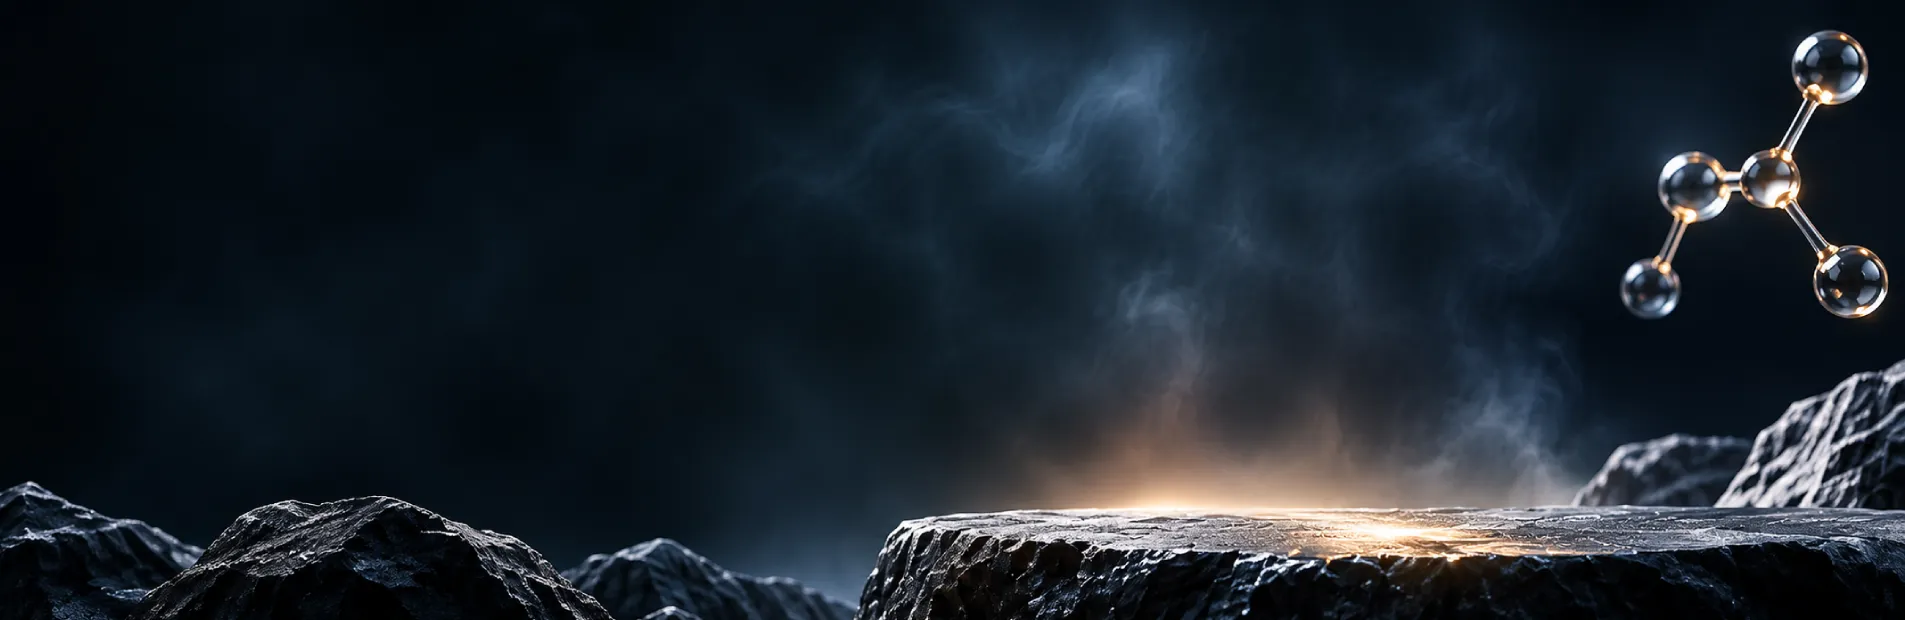
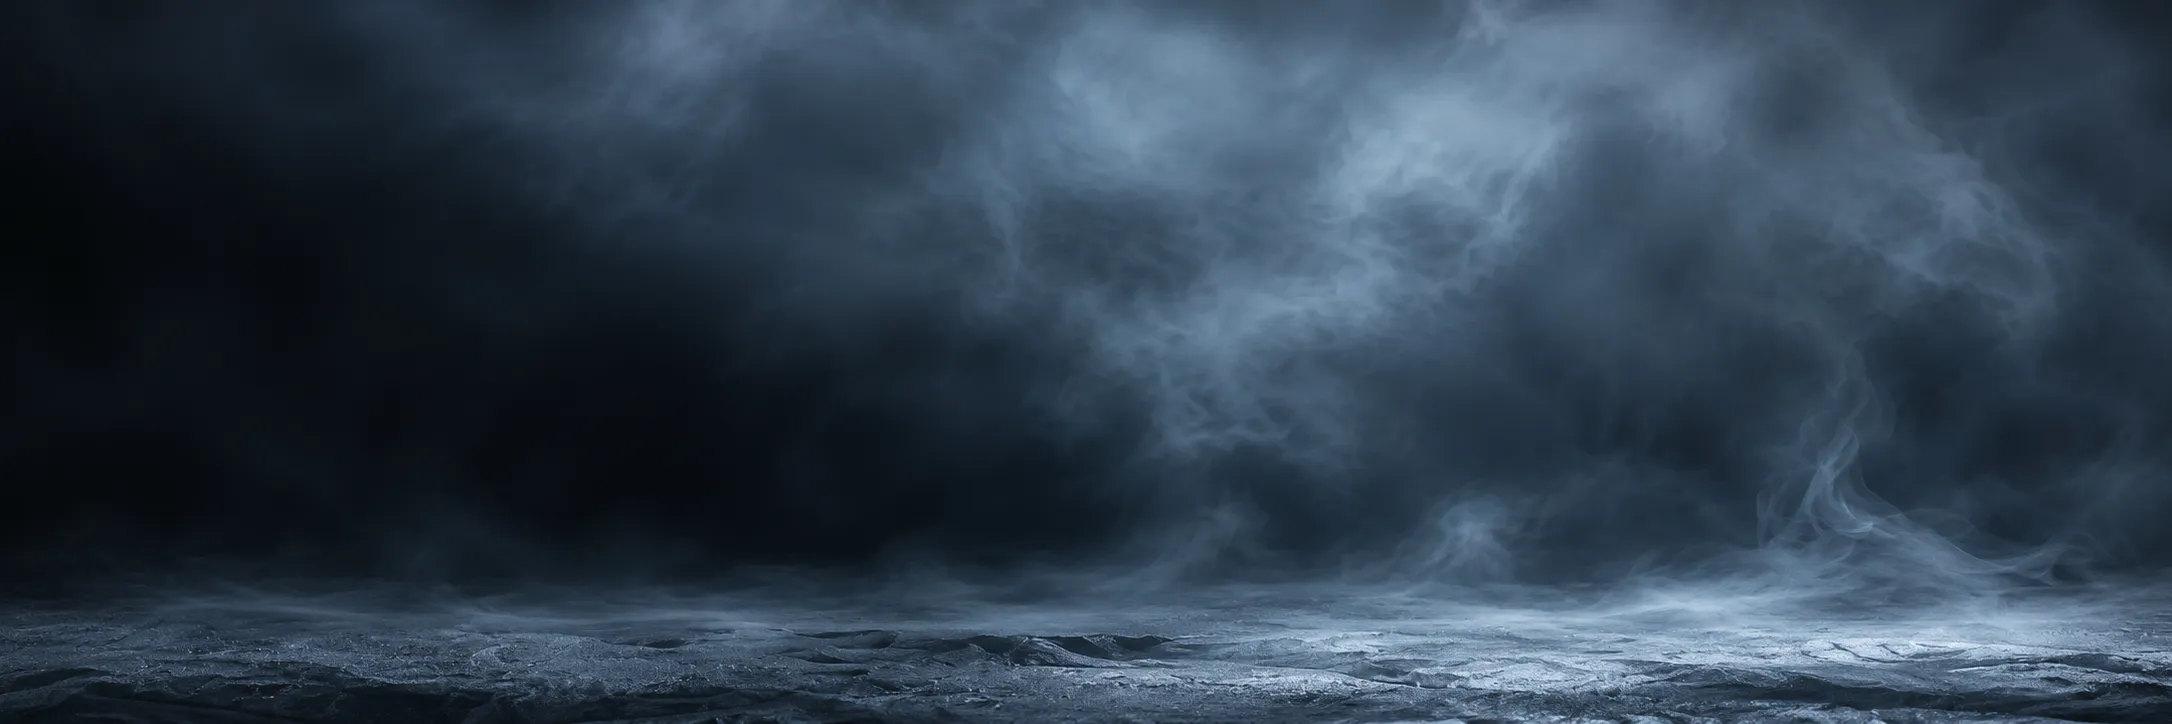
backup before execute 137

diff --git a/public/frontend/assets/css/home-reference.css b/public/frontend/assets/css/home-reference.css
@@ -281,8 +281,6 @@
     width: 420px;
     aspect-ratio: 1;
     border-radius: 50%;
-    background: radial-gradient(circle, rgba(243, 182, 63, .22), transparent 68%);
-    filter: blur(8px)
 }
 
 .onyx-hero-product img {
@@ -2436,9 +2434,9 @@
 
 .home-page .onyx-categories > .container {
     width: 100%;
-    max-width: none;
-    padding-right: clamp(22px, 3.2vw, 64px);
-    padding-left: clamp(22px, 3.2vw, 64px);
+    max-width: 1280px;
+    padding-right: 12px;
+    padding-left: 12px;
 }
 
 .home-page .onyx-category-heading {
@@ -2447,7 +2445,7 @@
     display: flex;
     align-items: center;
     justify-content: center;
-    margin-bottom: 48px;
+    margin-bottom: 34px;
     text-align: center;
 }
 
@@ -2989,5 +2987,202 @@
 
     .home-page .onyx-newsletter {
         padding: 20px;
+    }
+}
+
+/* Minimal title-only category directory. */
+.home-page .onyx-categories {
+    color: #0b151d;
+    background:
+        radial-gradient(circle at 8% 20%, rgba(243,182,63,.09), transparent 22%),
+        radial-gradient(circle at 92% 80%, rgba(7,16,24,.045), transparent 24%),
+        #fff;
+}
+
+.home-page .onyx-category-heading h2 {
+    color: #0b151d;
+}
+
+.home-page .onyx-category-heading > div > p:last-child {
+    color: #66727a;
+}
+
+.home-page .onyx-category-grid {
+    grid-template-columns: repeat(4, minmax(0, 1fr));
+    gap: 14px;
+}
+
+.home-page .onyx-category-card {
+    min-height: 118px;
+    display: grid;
+    place-items: center;
+    padding: 20px;
+    overflow: hidden;
+    border: 1px solid #e1e5e7;
+    border-radius: 16px;
+    background: rgba(255,255,255,.9);
+    color: #101a22;
+    text-align: center;
+    text-decoration: none;
+    box-shadow: 0 10px 26px rgba(7,16,24,.06);
+    transition: transform .3s ease, border-color .3s ease, box-shadow .3s ease, color .3s ease, background .3s ease;
+}
+
+.home-page .onyx-category-card:before {
+    content: "";
+    position: absolute;
+    top: 0;
+    left: 50%;
+    width: 54px;
+    height: 3px;
+    border-radius: 0 0 999px 999px;
+    background: linear-gradient(90deg, #ffe39a, #d8951d);
+    transform: translateX(-50%);
+    transition: width .3s ease;
+}
+
+.home-page .onyx-category-card:after {
+    content: "";
+    position: absolute;
+    right: -42px;
+    bottom: -42px;
+    width: 90px;
+    height: 90px;
+    border: 1px solid rgba(198,136,23,.13);
+    border-radius: 50%;
+    box-shadow: 0 0 0 18px rgba(198,136,23,.025);
+}
+
+.home-page .onyx-category-card > strong {
+    position: relative;
+    z-index: 1;
+    max-width: 100%;
+    color: inherit;
+    font-size: clamp(14px, 1.05vw, 17px);
+    line-height: 1.1;
+    letter-spacing: -.02em;
+    text-transform: uppercase;
+}
+
+.home-page .onyx-category-card:hover {
+    border-color: rgba(198,136,23,.5);
+    background: linear-gradient(145deg, #fffdf8, #fff);
+    color: #b8790d;
+    box-shadow: 0 18px 38px rgba(7,16,24,.11);
+    transform: translateY(-5px);
+}
+
+.home-page .onyx-category-card:hover:before {
+    width: 100%;
+}
+
+@media(max-width:991px) {
+    .home-page .onyx-category-grid {
+        grid-template-columns: repeat(2, minmax(0, 1fr));
+    }
+}
+
+@media(max-width:575px) {
+    .home-page .onyx-categories > .container {
+        padding-right: 16px;
+        padding-left: 16px;
+    }
+
+    .home-page .onyx-category-grid {
+        grid-template-columns: 1fr;
+        gap: 12px;
+    }
+
+    .home-page .onyx-category-card {
+        min-height: 104px;
+        border-radius: 16px;
+    }
+}
+
+/* Final compact category treatment: premium navigation tiles without dead space. */
+.home-page .onyx-categories.section-pad {
+    padding-top: 54px;
+    padding-bottom: 46px;
+}
+
+.home-page .onyx-category-heading {
+    margin-bottom: 26px;
+}
+
+.home-page main .onyx-categories .onyx-category-heading h2 {
+    font-size: clamp(38px, 3.6vw, 52px) !important;
+}
+
+.home-page .onyx-category-grid {
+    gap: 12px;
+}
+
+.home-page .onyx-category-card {
+    min-height: 82px;
+    display: flex;
+    align-items: center;
+    justify-content: flex-start;
+    padding: 18px 22px 18px 28px;
+    border: 1px solid #17242d;
+    border-radius: 13px;
+    background: linear-gradient(135deg, #101d26, #081117);
+    color: #fff;
+    text-align: left;
+    box-shadow: 0 10px 24px rgba(7,16,24,.12);
+}
+
+.home-page .onyx-category-card:before {
+    top: 50%;
+    left: 0;
+    width: 4px;
+    height: 34px;
+    border-radius: 0 999px 999px 0;
+    background: linear-gradient(#ffe39a, #d8951d);
+    transform: translateY(-50%);
+}
+
+.home-page .onyx-category-card:after {
+    right: -24px;
+    bottom: -42px;
+    width: 82px;
+    height: 82px;
+    border-color: rgba(243,182,63,.1);
+    box-shadow: 0 0 0 14px rgba(243,182,63,.018);
+}
+
+.home-page .onyx-category-card > strong {
+    width: 100%;
+    color: #fff;
+    font-size: 14px;
+    line-height: 1.15;
+    letter-spacing: .015em;
+}
+
+.home-page .onyx-category-card:hover {
+    border-color: rgba(243,182,63,.72);
+    background: linear-gradient(135deg, #172732, #0b171f);
+    color: #fff;
+    box-shadow: 0 16px 34px rgba(7,16,24,.2);
+    transform: translateY(-4px);
+}
+
+.home-page .onyx-category-card:hover:before {
+    width: 4px;
+    height: 52px;
+}
+
+@media(max-width:575px) {
+    .home-page .onyx-categories.section-pad {
+        padding-top: 44px;
+        padding-bottom: 38px;
+    }
+
+    .home-page main .onyx-categories .onyx-category-heading h2 {
+        font-size: 36px !important;
+    }
+
+    .home-page .onyx-category-card {
+        min-height: 72px;
+        padding: 15px 18px 15px 24px;
     }
 }

diff --git a/resources/views/frontend/index-reference.blade.php b/resources/views/frontend/index-reference.blade.php
@@ -27,9 +27,7 @@
     <div class="onyx-category-grid">
       @foreach($categories as $category)
         <a class="onyx-category-card" href="{{ route('frontend.shop', ['category' => $category->slug]) }}">
-          <span class="onyx-category-image"><img src="{{ url($category->image ?: 'frontend/assets/images/product-bottle.png') }}" alt="{{ $category->name }}"></span>
-          <span class="onyx-category-content"><small>{{ str_pad((string) $loop->iteration, 2, '0', STR_PAD_LEFT) }}</small><strong>{{ $category->name }}</strong><em>{{ $category->products_count }} {{ \Illuminate\Support\Str::plural('product', $category->products_count) }}</em></span>
-          <i class="fa-solid fa-arrow-up-right-from-square"></i>
+          <strong>{{ $category->name }}</strong>
         </a>
       @endforeach
     </div>
